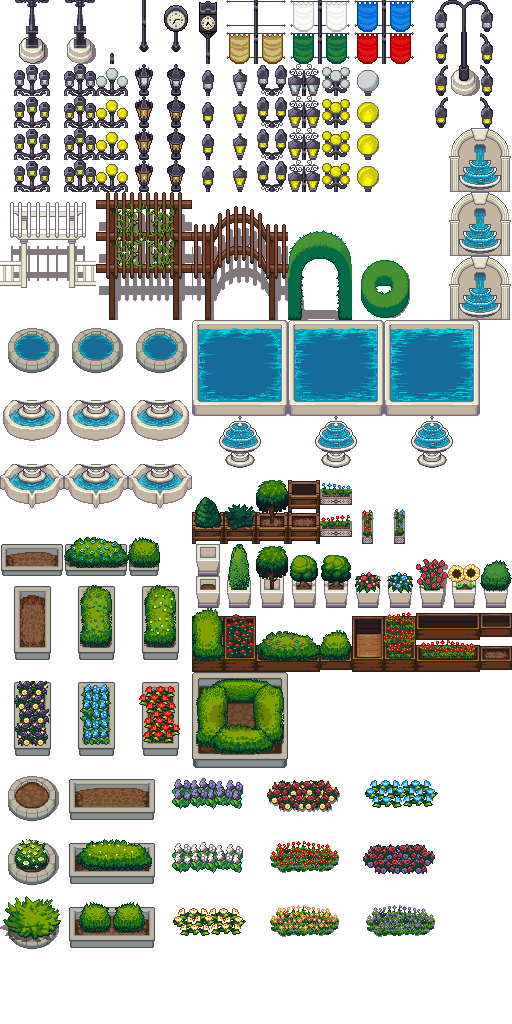
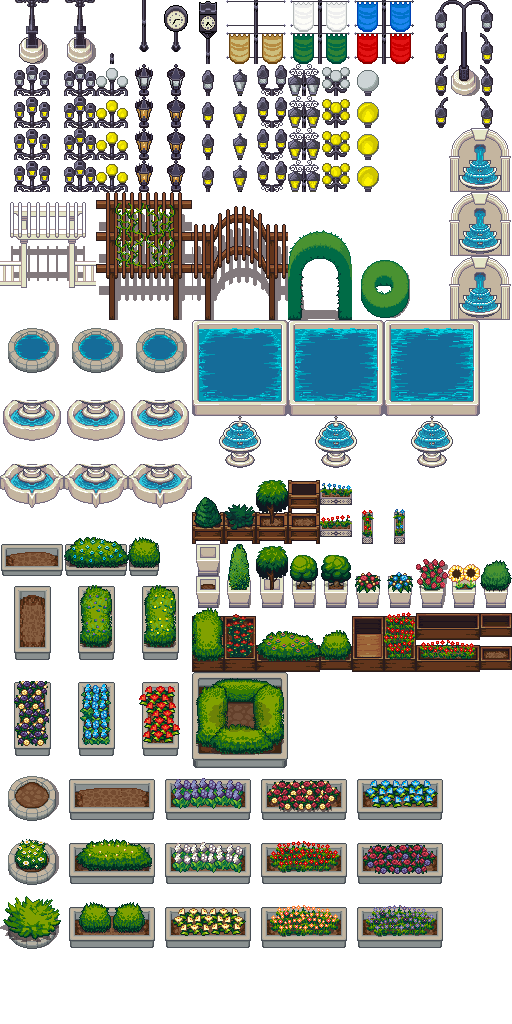
Adding many more flower beds.

Changed region(s): [[0.3125, 0.75, 0.875, 0.9375]]

diff --git a/addons/AlephVault.WindRose.LPC/visuals/victorian-street-appliances/README.md b/addons/AlephVault.WindRose.LPC/visuals/victorian-street-appliances/README.md
@@ -60,6 +60,8 @@ Inventory
 | `SmallHorizontalClayFlowerBed` | Down only | Dirt `(0, 512, 64, 64)`, bush `(128, 512, 64, 64)` | `Vector2(0, -32)` | Static | `content` with `CONTENT_DIRT`, `CONTENT_BUSH` |
 | `VerticalClayFlowerBed` | Down only | Dirt `(0, 576, 64, 96)`, bush purple flowers `(64, 576, 64, 96)`, bush yellow flowers `(128, 576, 64, 96)`, purple flowers `(0, 672, 64, 96)`, liteblue flowers `(64, 672, 64, 96)`, red flowers `(128, 672, 64, 96)` | `Vector2(-16, -16)` | Static | `content` with `CONTENT_DIRT`, `CONTENT_BUSH_PURPLE_FLOWERS`, `CONTENT_BUSH_YELLOW_FLOWERS`, `CONTENT_PURPLE_FLOWERS`, `CONTENT_LITEBLUE_FLOWERS`, `CONTENT_RED_FLOWERS` |
 | `RoundedBushPot` | Down only | Dirt `(0, 768, 64, 64)`, daisies bush `(0, 832, 64, 64)`, spiky bush `(0, 896, 64, 64)` | `Vector2.ZERO` | Static | `content` with `CONTENT_DIRT`, `CONTENT_DAISIES_BUSH`, `CONTENT_SPIKY_BUSH` |
+| `BigTreeBed` | Down only | Region `(192, 672, 96, 96)` | `Vector2.ZERO` | Static | None |
+| `HorizontalClayFlowerBed` | Down only | Computed `(X, Y, 96, 64)`, where `X = 64 + (index / 3) * 96` and `Y = 768 + (index % 3) * 64` | `Vector2(0, -16)` | Static | `content` with `CONTENT_DIRT`, `CONTENT_BUSH`, `CONTENT_BUSHES`, `CONTENT_FLOWER_PURPLE`, `CONTENT_FLOWER_WHITE`, `CONTENT_FLOWER_YELLOW`, `CONTENT_FLOWER_ROSES_AND_YELLOW`, `CONTENT_FLOWER_RED`, `CONTENT_FLOWER_ORANGE`, `CONTENT_FLOWER_LITEBLUE`, `CONTENT_FLOWER_ROSES_AND_PURPLE`, `CONTENT_FLOWERS_PURPLE2` |
 
 Composition Notes
 -----------------